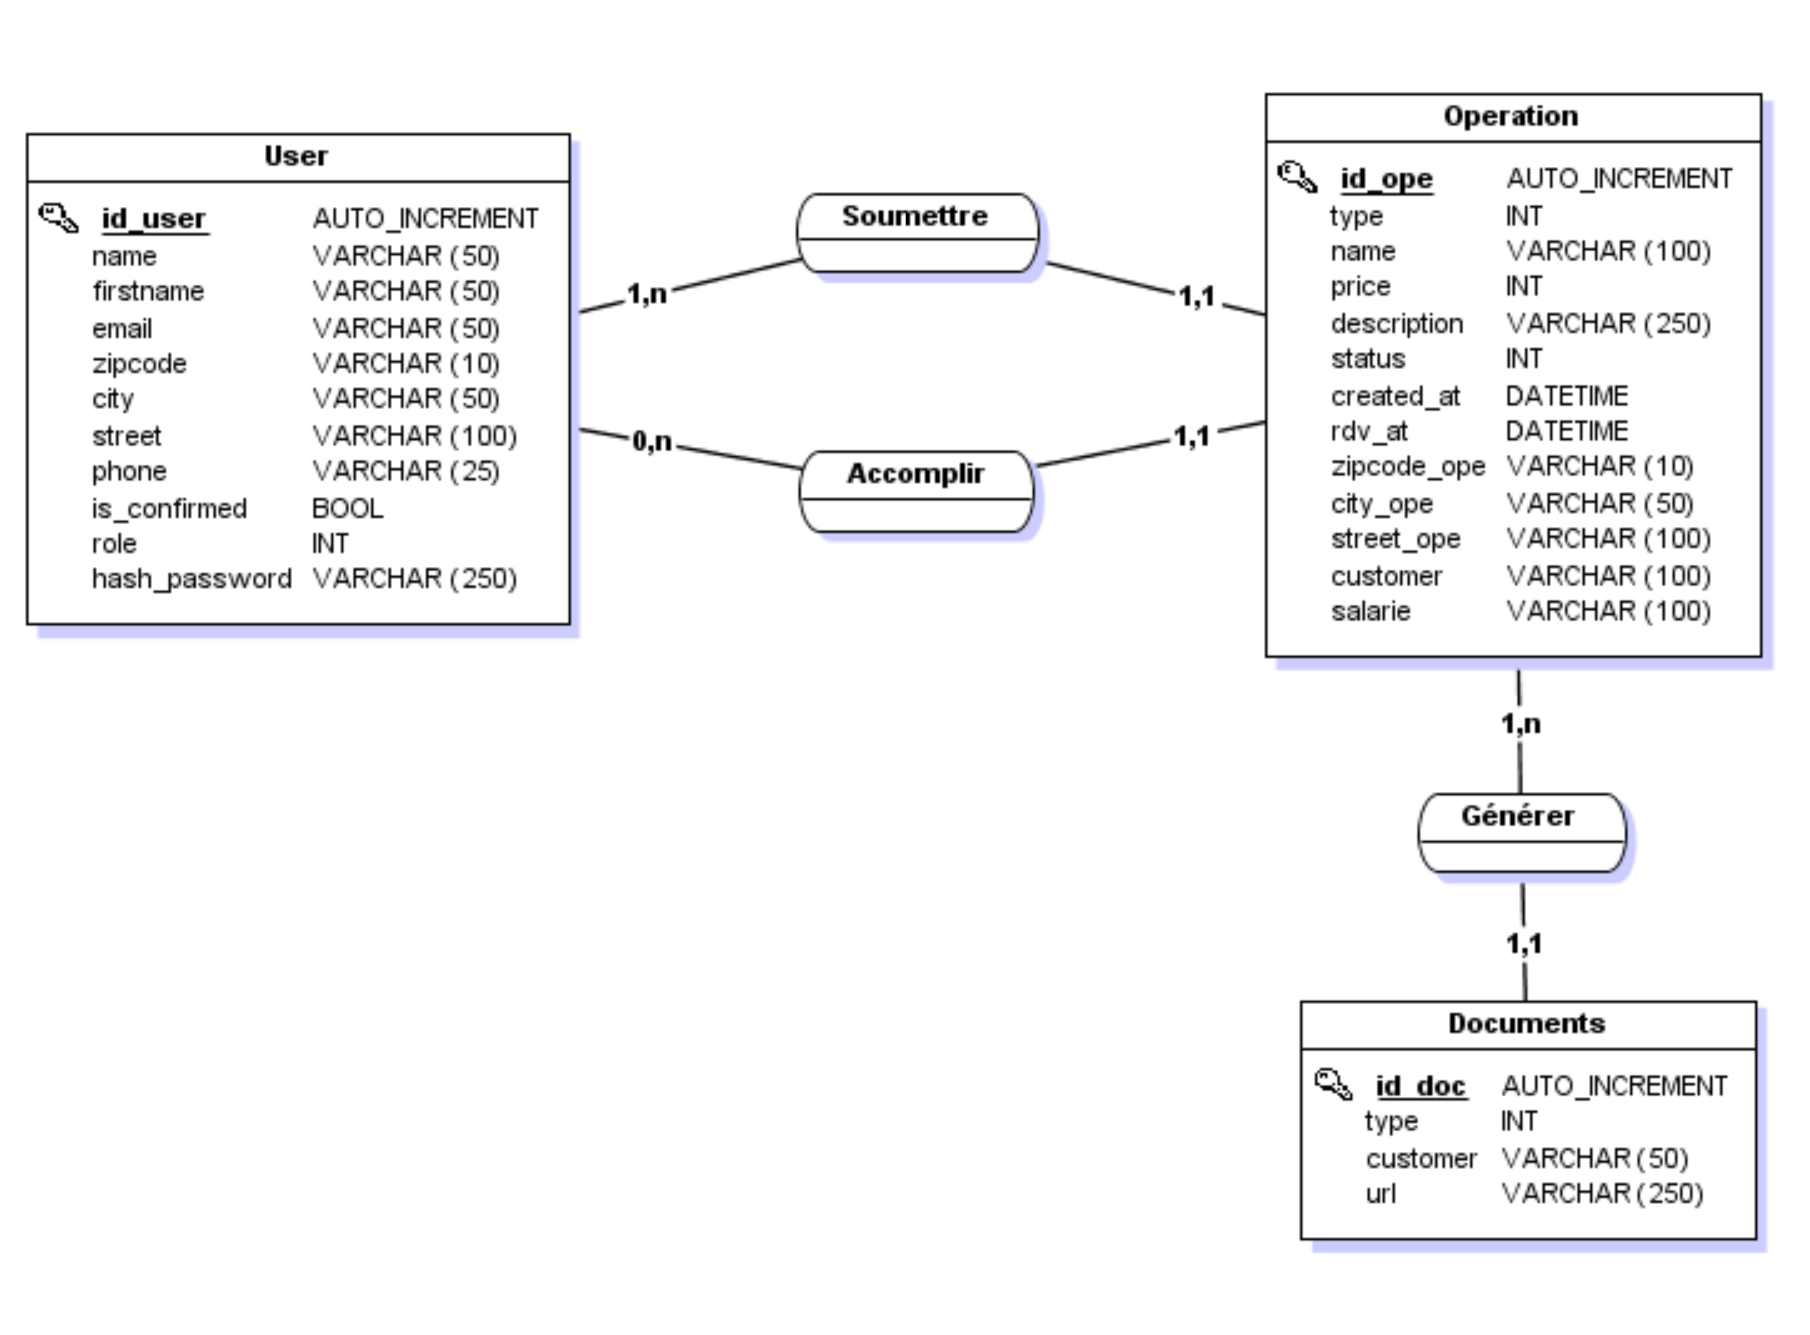
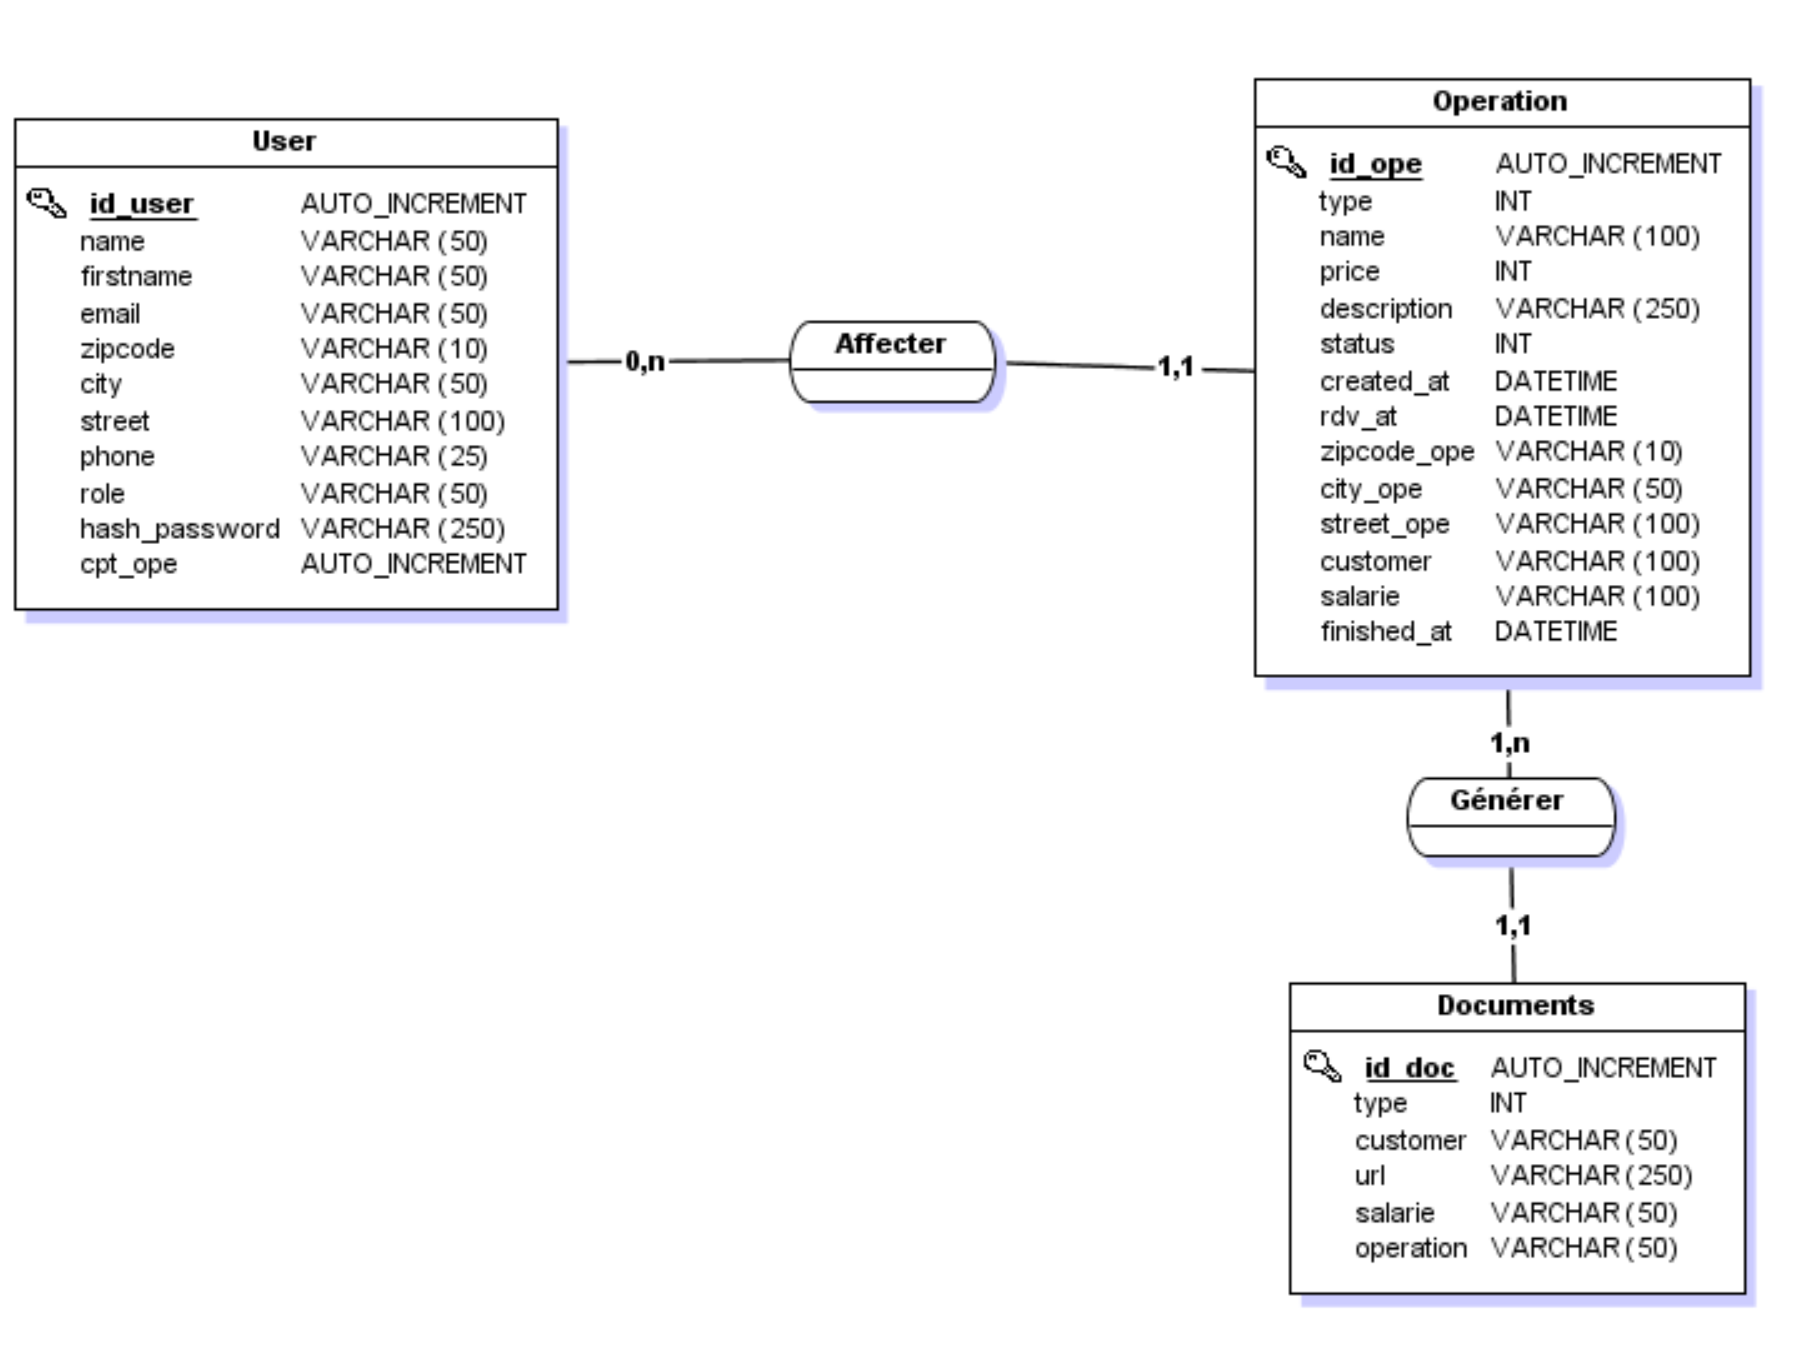
Update MCD/MLD

Changed region(s): [[0.0, 0.0307, 0.9901, 0.9828], [0.4022, 0.3378, 0.6188, 0.43]]

diff --git a/Projet fil rouge/Cleanthis/src/Entity/User.php b/Projet fil rouge/Cleanthis/src/Entity/User.php
@@ -63,6 +63,7 @@ class User implements UserInterface, PasswordAuthenticatedUserInterface
         $this->operations = new ArrayCollection();
         $this->ope_employe = new ArrayCollection();
         $this->is_confirmed = false;
+        $this->roles = ['0'];
     }
 
     public function getId(): ?int
